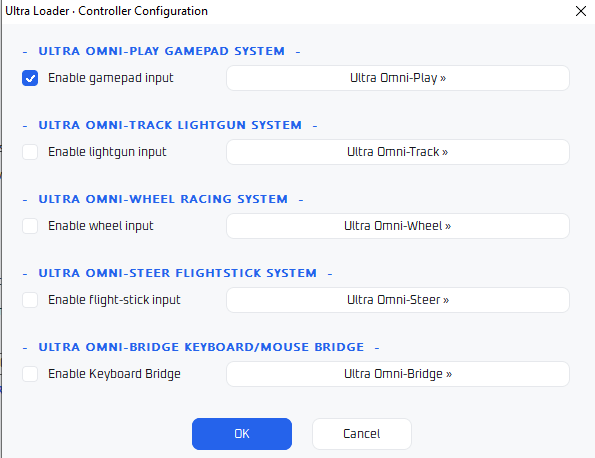
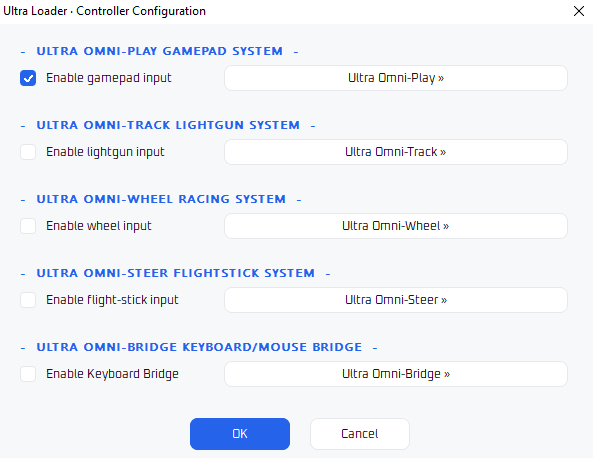
README: replace Omni-Services shot and enlarge

diff --git a/README.md b/README.md
@@ -75,7 +75,7 @@ Plug in your hardware and go. Ultra Loader detects what you have and wires it st
 Card readers (card-in progression) and a credit injector (hotkey or auto-insert coins) are wired up too. One page configures all of it: set it once and every supported game picks it up.
 
 <div align="center">
-<a href="media/ui-omni.png"><img src="media/ui-omni.png" alt="Ultra Loader controller configuration with the five Omni systems" width="720"></a>
+<a href="media/ui-omni.png"><img src="media/ui-omni.png" alt="Ultra Loader controller configuration with the five Omni systems" width="820"></a>
 <br>
 <i>One controller page, five Omni systems. (Click to view full size.)</i>
 </div>
